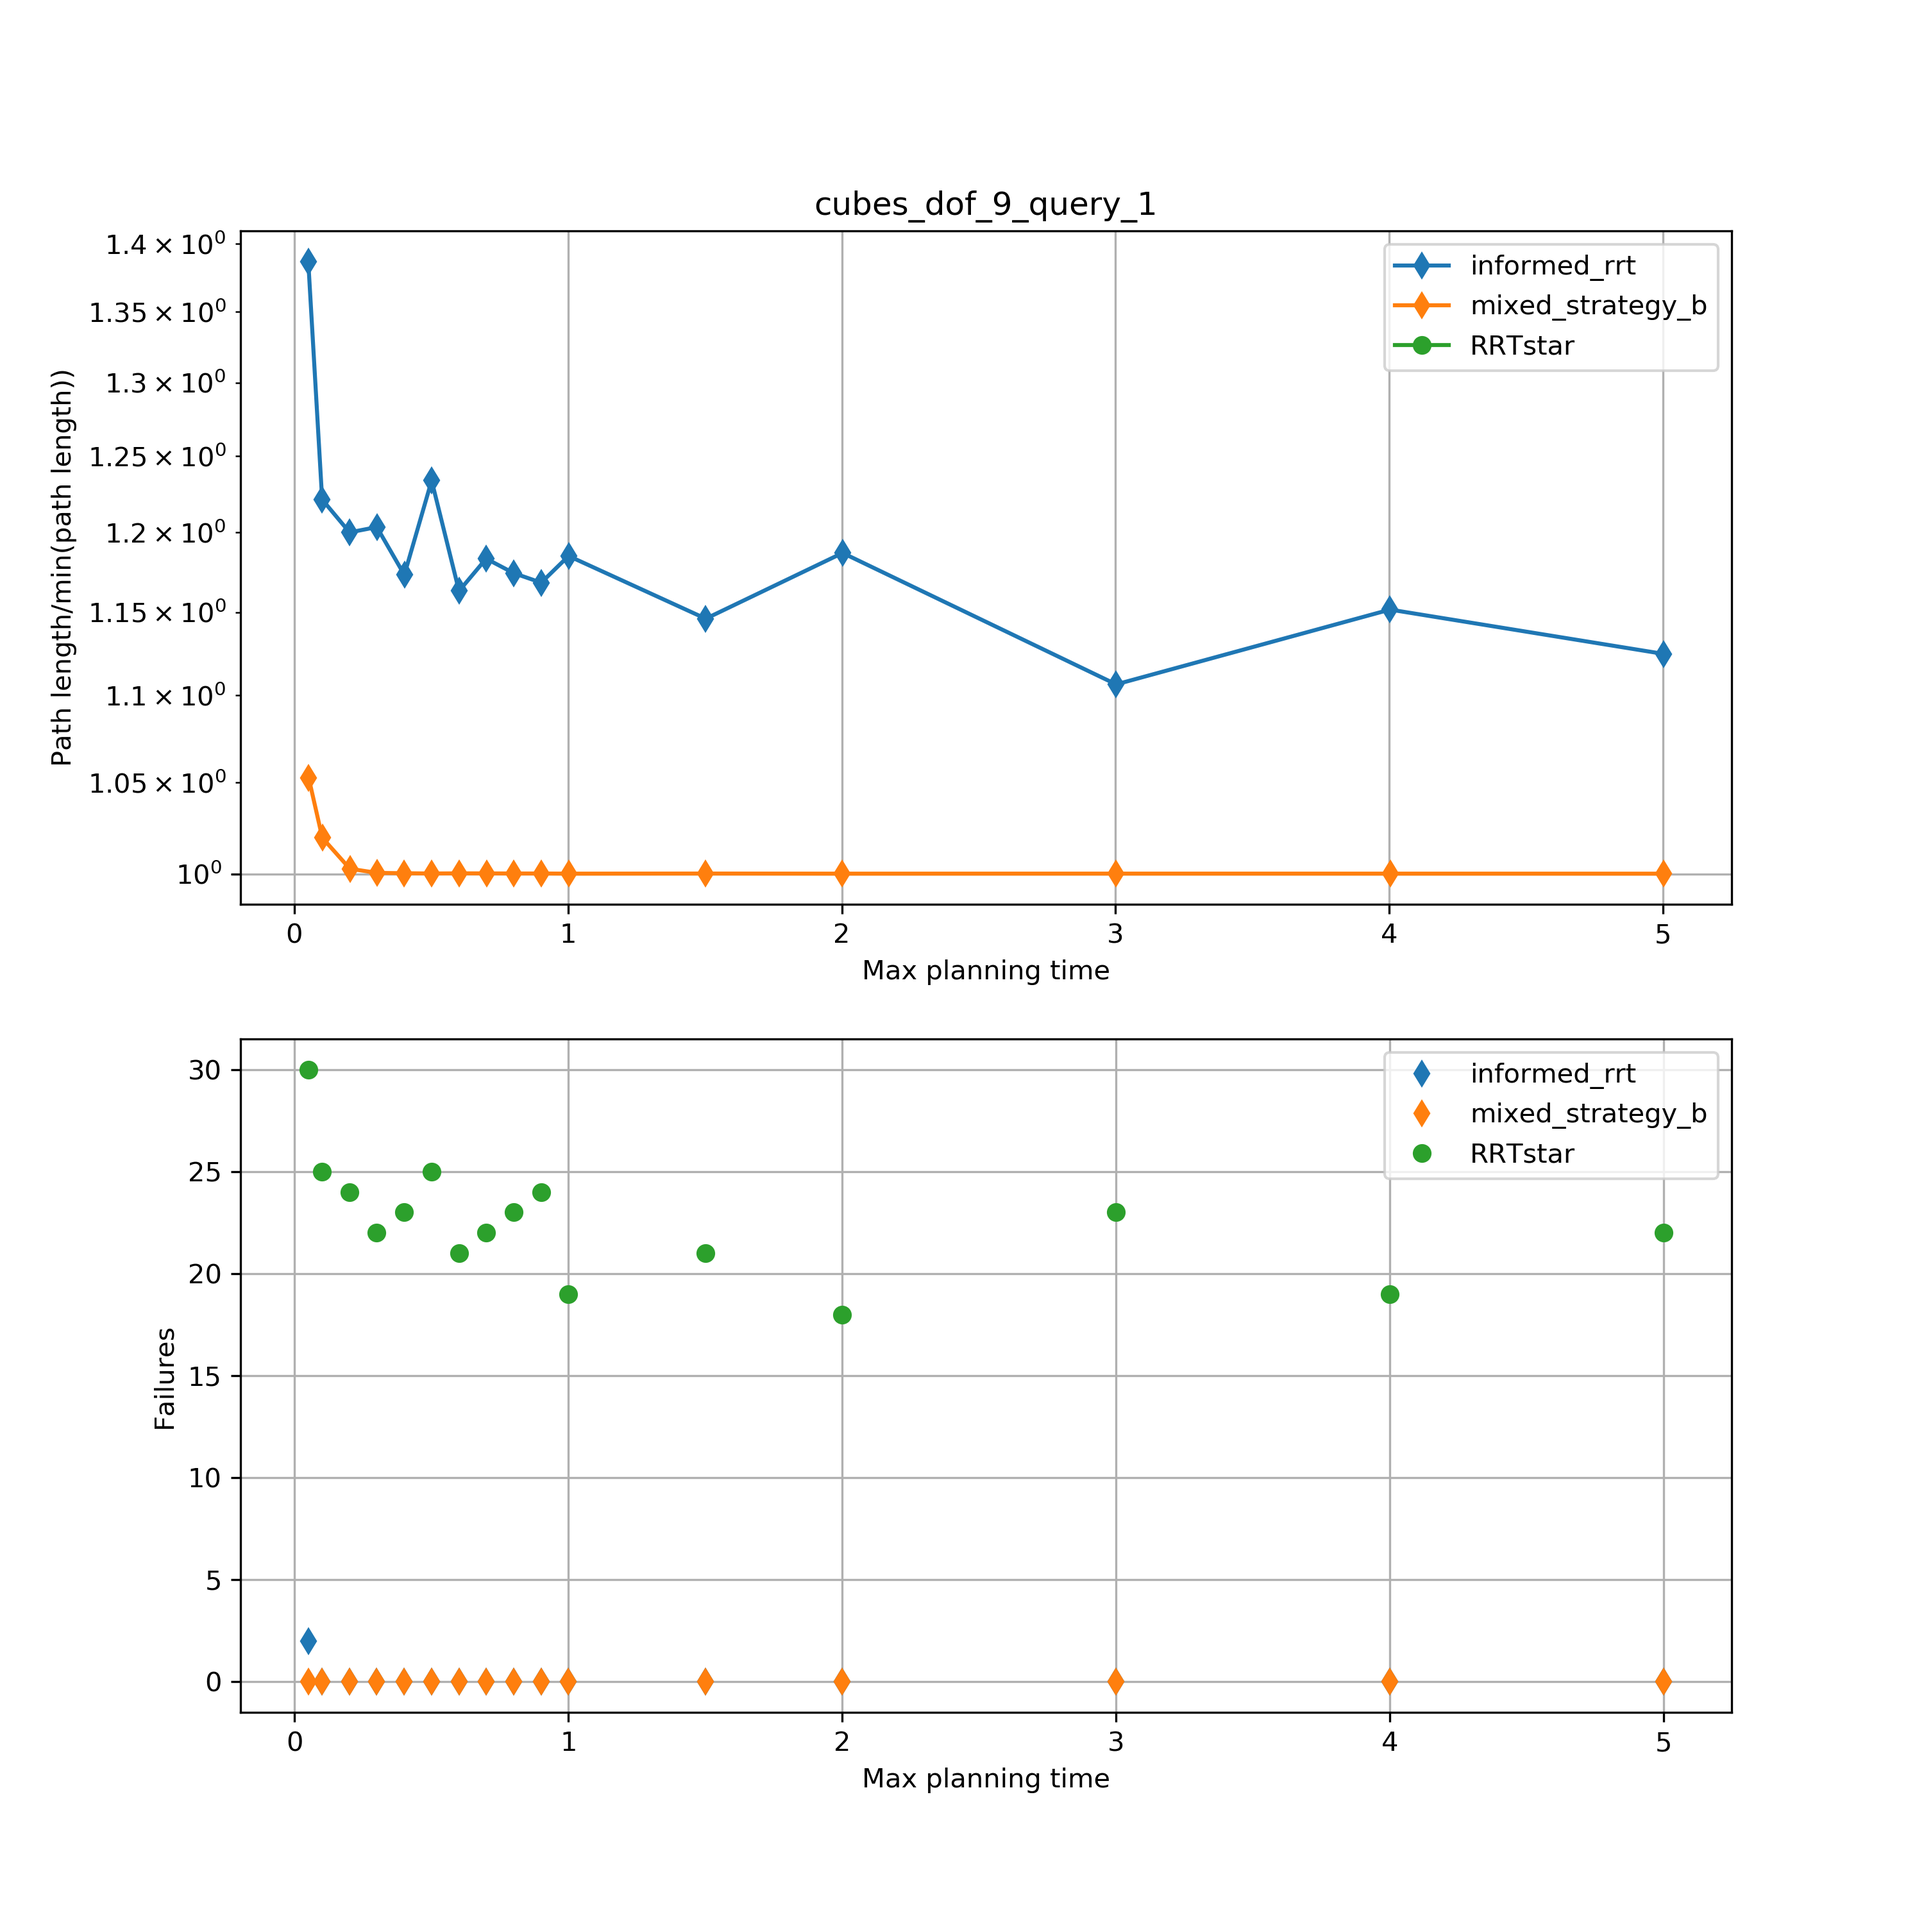
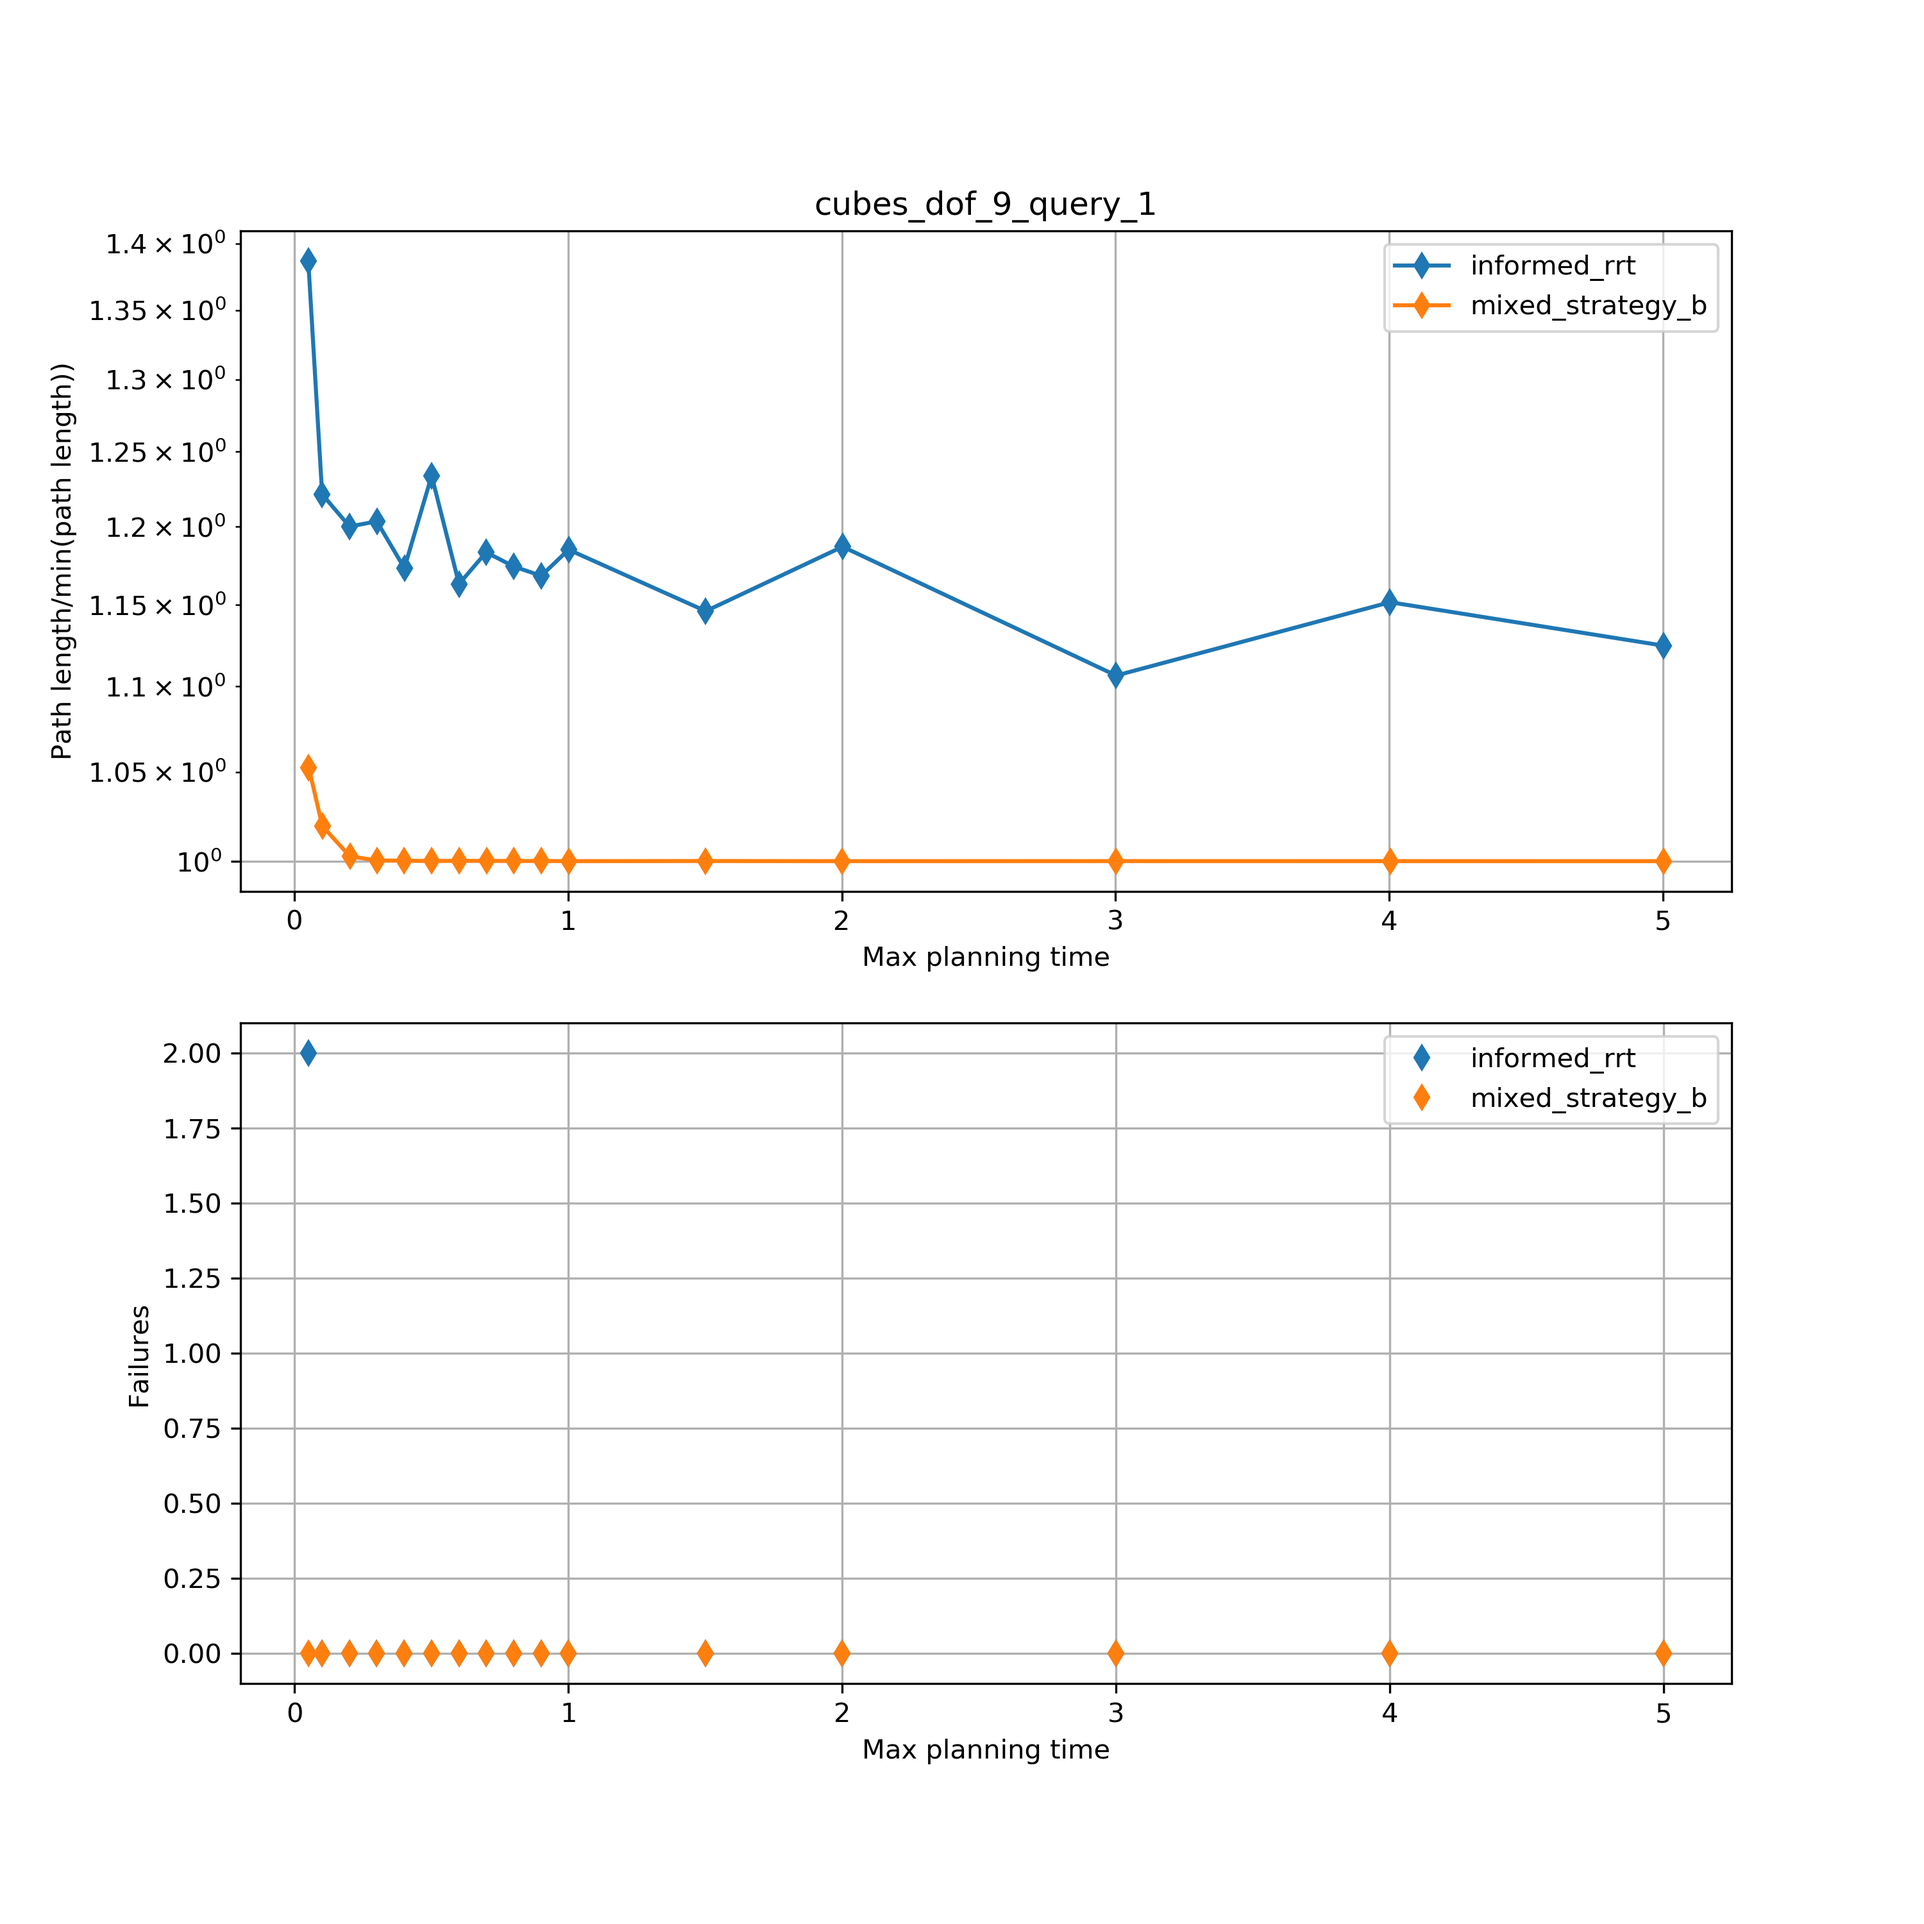
violin

diff --git a/scripts/view_results.py b/scripts/view_results.py
@@ -12,12 +12,12 @@ import math
 import matplotlib.pyplot as plt
 
 
-load_from_parameter_server=True
+load_from_parameter_server=False
 
 if load_from_parameter_server:
    param=rospy.get_param("/benchmark")
 else:
-   with open('../config/result_query01_3dof.yaml') as f:
+   with open('benchmark_result_9.yaml') as f:
        param = yaml.safe_load(f)
 
 queries_number=param["queries_number"]
@@ -35,13 +35,18 @@ for pipeline_id in pipeline_ids:
         tested_planners.append([pipeline_id,planner_id])
         planner_str.append(planner_id)
 
+tested_planners=tested_planners[0:2]
 tot_min_length=0
 tot_median_length=np.empty([len(tested_planners),len(planning_times)])
 tot_median_length[:]=0
 
+#cost_over_time=np.empty([len(planning_times),len(tested_planners),queries_number])
+median_cost_over_time=[]
+
 tot_failures=np.zeros([len(tested_planners),len(planning_times)])
 tot_planning_time=np.zeros([len(tested_planners),len(planning_times)])
 marker=[]
+
 for iquery in range(0,queries_number):
     query_str="query_"+str(iquery)
     q=param[query_prefix][query_str];
@@ -49,6 +54,7 @@ for iquery in range(0,queries_number):
 
     min_length=math.inf
     median_length=np.empty([len(tested_planners),len(planning_times)])
+    lengths=np.empty([len(tested_planners),len(planning_times),repetitions])
     median_length[:]=np.Inf
     failures=np.zeros([len(tested_planners),len(planning_times)])
     query_planning_time=np.zeros([len(tested_planners),len(planning_times)])
@@ -85,6 +91,7 @@ for iquery in range(0,queries_number):
                     query_planning_time[iplanner][iplan_time]=np.inf
             min_length=min(min_length,np.min(trajectory_length))
             median_length[iplanner][iplan_time]=np.median(trajectory_length)
+            lengths[iplanner][iplan_time]=trajectory_length
             tot_median_length[iplanner][iplan_time]+=median_length[iplanner][iplan_time]
             tot_failures[iplanner][iplan_time]+=failures[iplanner][iplan_time]
     fig, axs = plt.subplots(2)
@@ -93,6 +100,24 @@ for iquery in range(0,queries_number):
         #axs[0].semilogy(query_planning_time[iplanner]/repetitions,np.log10(median_length[iplanner]/min_length),"-"+marker[iplanner], label=planner_str[iplanner])
         axs[0].semilogy(query_planning_time[iplanner]/repetitions,(median_length[iplanner]/min_length),"-"+marker[iplanner], label=planner_str[iplanner])
         axs[1].plot(np.array(planning_times),failures[iplanner],marker[iplanner], label=planner_str[iplanner])
+
+    for iplanner in range(0,len(tested_planners)):
+        for iplan_time in range(0,len(planning_times)):
+            for iteration in range(0,repetitions):
+                entry={'planning_time': planning_times[iplan_time],
+                   'planner': tested_planners[iplanner][1],
+                   'length': min(median_length[iplanner][iplan_time]/min_length,10),
+                   }
+                cost_over_time.append(entry)
+    for iplanner in range(0,len(tested_planners)):
+        for iplan_time in range(0,len(planning_times)):
+            
+            #cost_over_time[iplan_time][iplanner][iquery]=median_length[iplanner][iplan_time]/min_length
+            entry={'planning_time': planning_times[iplan_time],
+                   'planner': tested_planners[iplanner][1],
+                   'length': min(median_length[iplanner][iplan_time]/min_length,10),
+                   }
+            median_cost_over_time.append(entry)
     axs[0].legend()
     axs[0].set(xlabel="Max planning time",ylabel="Path length/min(path length))",title=str(query_prefix+"_"+query_str))
     axs[0].grid(True)

diff --git a/src/run_queries.cpp b/src/run_queries.cpp
@@ -205,8 +205,8 @@ int main(int argc, char **argv)
           }  // for each repetion
         }  // for each planner
       }  // for each pipeline
-      system("rosparam dump benchmark_result.yaml /benchmark");
     }  // for each planning time
+    system("rosparam dump benchmark_result.yaml /benchmark");
   }  // for each query
 
   return 0;
